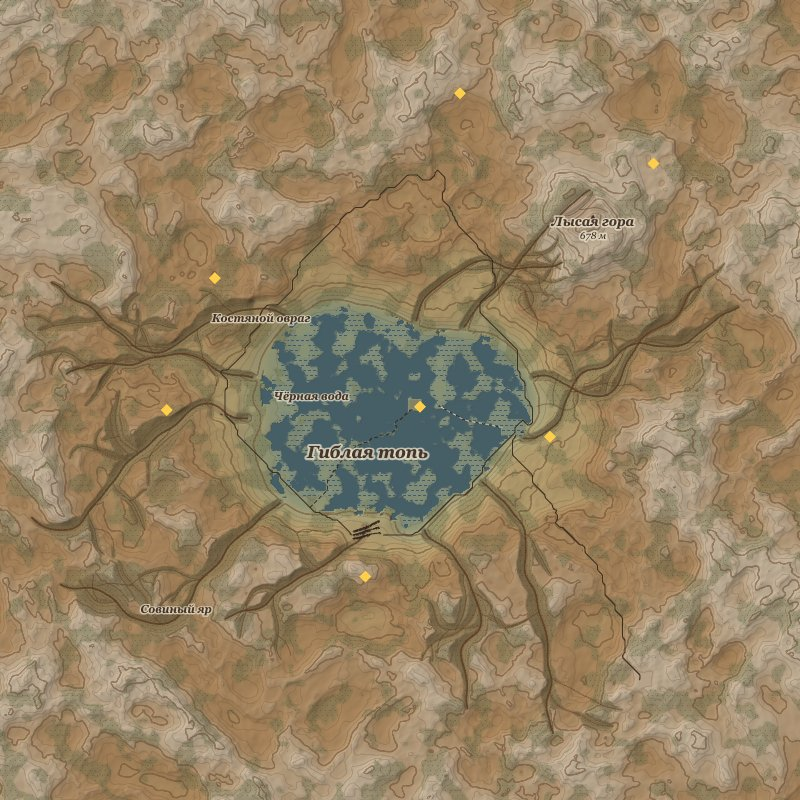
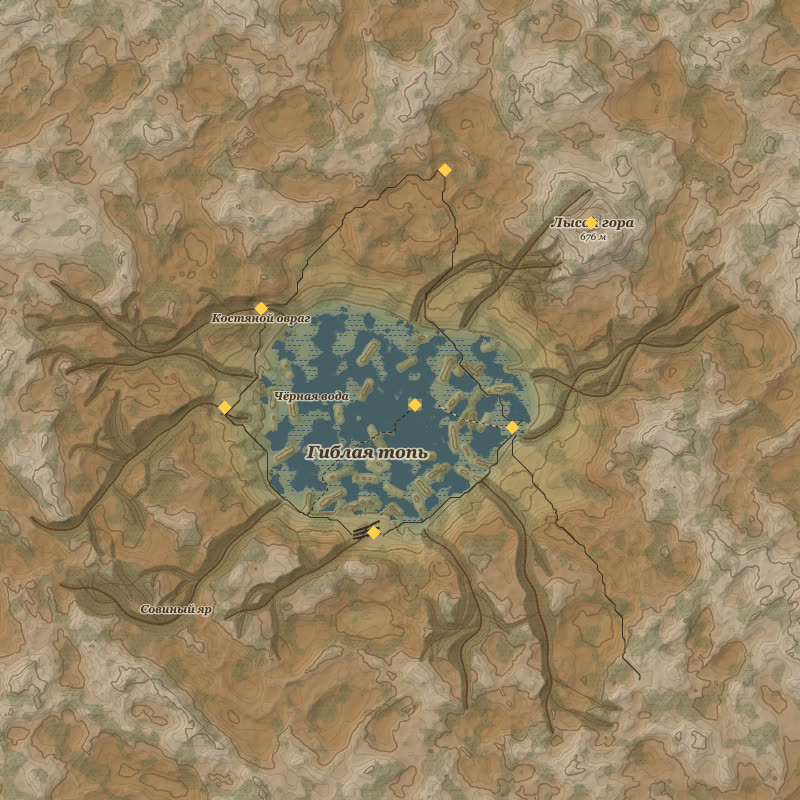
airdef: память налёта — точки обшивки для пробоин при первой пробоине и одни на модель (стенд обороны 1201 → 33 МБ); картинки события с гривами, ромбы целей на местах
Тесты (airdef-tester): ui (без флага памяти), sim, combined, cm, event — прошли.

diff --git a/fortuna-bot-web/AIRDEF_STATE.md b/fortuna-bot-web/AIRDEF_STATE.md
@@ -277,3 +277,4 @@ Mark работает с **Opus на высоком усилии** — он ру
 - 2026-10-22 · Opus 5.5 · вертолёт — подскок одной кнопкой (пункт «В» плана Mark): E / «ПОДСКОК» (кнопка только у вертолёта, в редакторе кнопок — tPop). «Аркада» (air.js pop / popStep): цель — ближайшая впереди (±40°) в досягаемости выбранного оружия (popPick: цели задания и замеченные комплексы), контейнер переводится на неё; висение, нос на цель, вверх, пока луч из носа не увидит высшую точку объекта с запасом 3 м (с НАР — не ниже 50 м), не дальше +70 м и 12 с; захват и пуск сам (ПТУР — по захвату контейнера в досягаемости, НАР — по «в зоне — залп», помощь НАР берёт ту же цель), ПТУР ведёт до попадания (до 25 с), затем вниз на прежнюю высоту; взялись за высоту или поворот — управление у игрока, повторное нажатие — отмена и вниз. «Реализм» — только подсказка «поднимитесь на +N м — <цель> покажется». Кнопка подсвечена, пока идёт подскок; F1 (hints.js), подсказка к ПТУР, урок «Укрытия и подскок», словари. Стенд (scratchpad popup.js, 8 вертолётов × 3 стороны, 3,5 км, 20 м): подъём / пуск / спуск — без ошибок; где цель видна — пуск и попадание ПТУР примерно в половине случаев, НАР — залп после подъёма до 50 м; где рельеф закрывает и с +70 м — «цель не показалась — смените позицию». Для стендов — api.pop и api.podState
 - 2026-10-22 · Opus 5.5 · «Туманная топь» — больше перепад высот (пункт «Б» плана Mark): овраги в 1,5 раза глубже (map-autumn.js d0: главные 52 → 78 м, отвершки 34 → 50, промоины 20 → 30, у верховья 12 → 16; широкий склон > 200 м — по каждой второй точке, сборка карты не медленнее: медиана ~510 мс как была); в котловине — сухие гривы (RIDGES / ridgeGrid): у деревни, фермы и торфяника — три кольца по 5 гряд со стороны болота в 1,5–3,4 км от цели (у целей на склоне — ближе), у монастыря — два кольца (1,9 и 2,9 км), высота 32–46 м, длина ~0,7–1,5 км, разброс по хэшу номера (случайных чисел карты не берут — остальное не сдвинулось), над водой — суша, ров монастыря не тронут. Видимость целей (scratchpad los2.js: 24 пеленга × 2,5/3/3,5 км; «спрятан» — 20 м, «подскок» — 60 м; было → стало): торфяник 53 → 29 / 63 → 63 из 72, монастырь 72 → 41 / 72 → 72, деревня 36 → 37 / 52 → 52 (на склоне — смотрит на болото сверху, гряды почти не закрывают), ферма 31 → 15 / 51 → 33 (с подскока — выше, до +70 м), вертолётная площадка и рембаза в овраге — без изменений. Урок «Укрытия и подскок» — строка о гривах. Картинка события ui/ev_map.jpg — прежняя (без грив)
 - 2026-10-22 · Opus 5.5 · пауза вертолёта — своё управление (air.js heliHelp: «Аркада» / «Реализм», ПК / телефон; раньше — клавиши самолёта: тангаж, форсаж, «высота от 400 м»); снято из «Мелочей ревью» (F1 вертолёта в «Реализме» был уже свой — hints.js heliR)
+- 2026-10-22 · Opus 5.5 · память налёта: plane-damage.js — точки обшивки для пробоин (SAMP) строятся при первой пробоине и одни на модель (SAMPS по ключу), раньше — сразу у каждого самолёта налёта ~10 тыс. треугольников клонами Vector3; стенд обороны (heli-soak DEF, восток III, город): память к концу боя 1201 → 33 МБ. ui-test теперь проходит без --max-old-space-size=8192. Картинки события ui/ev_map.jpg / ev_map_en.jpg перерисованы с гривами (подложка menu.mapBase(800) + ромбы целей, headless Chrome, scratchpad evmap.js); у прежних ромбы стояли мимо объектов — масштаб считали от 14 км вместо 16
